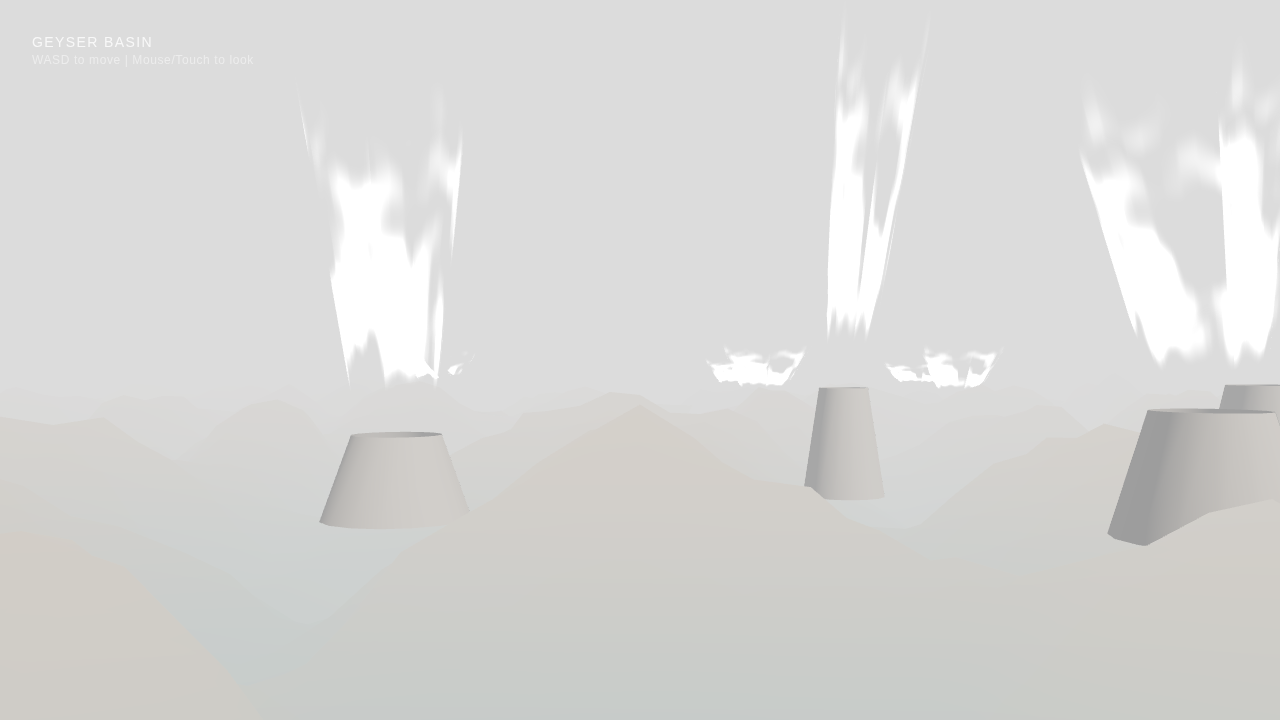
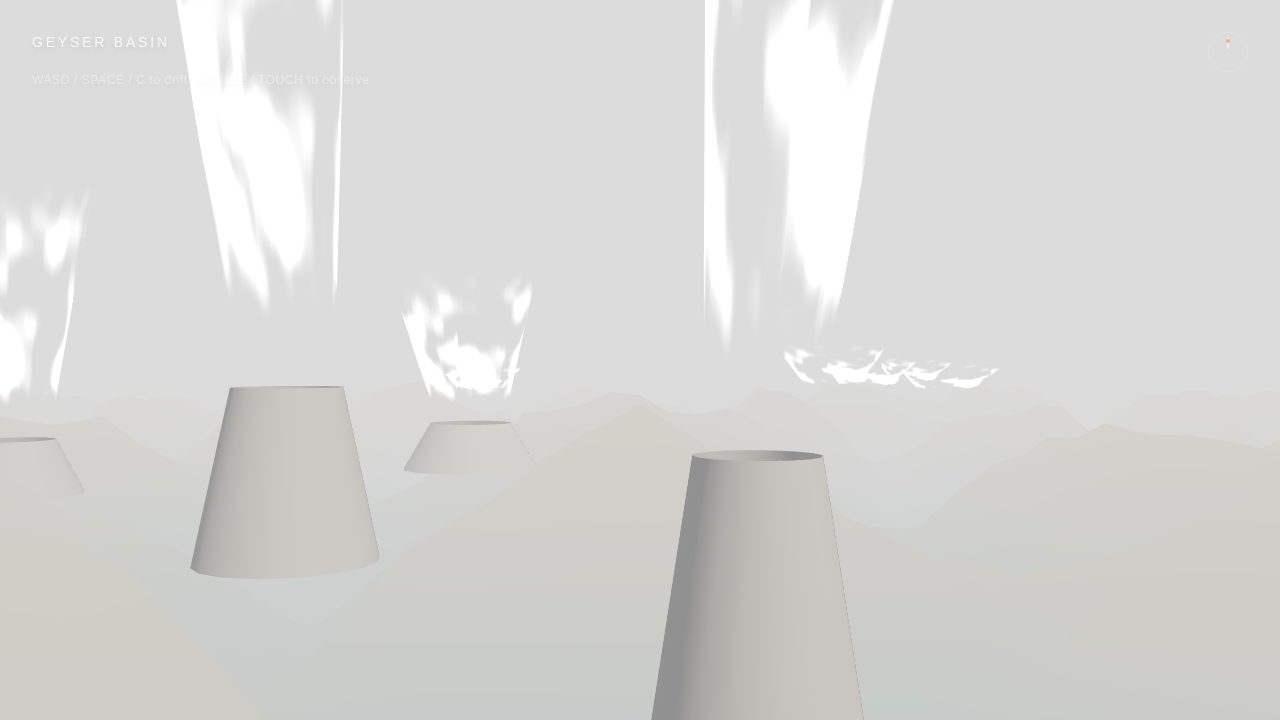
feat(ui): implement premium ux transformations
- Add cinematic intro screen with delayed fade-in animations.
- Implement "breath pulse" animation for the enter button.
- Add dynamic compass glyph that rotates with camera yaw.
- Implement inactivity UI fade (fades after 8 seconds of no input) to prioritize immersion.
- Refine typography to feel more grounded and atmospheric.

diff --git a/src/core/Experience.js b/src/core/Experience.js
@@ -78,20 +78,56 @@ export class Experience {
         // Audio System
         this.audioSystem = new AudioSystem();
 
-        // One-time click listener to initialize audio
-        const initAudio = () => {
-            if (this.audioSystem) {
-                this.audioSystem.init();
-            }
-            document.removeEventListener('click', initAudio);
-            document.removeEventListener('touchstart', initAudio);
-        };
-        document.addEventListener('click', initAudio);
-        document.addEventListener('touchstart', initAudio);
+        // UI State
+        this.isActive = false; // Only true once user clicks "Enter"
+
+        // Handle Intro Screen
+        const enterButton = document.getElementById('enter-button');
+        const introScreen = document.getElementById('intro-screen');
+        const uiOverlay = document.getElementById('ui-overlay');
+
+        if (enterButton) {
+            enterButton.addEventListener('click', () => {
+                if (this.audioSystem) {
+                    this.audioSystem.init();
+                }
+
+                this.isActive = true;
+
+                if (introScreen) {
+                    introScreen.style.opacity = '0';
+                    setTimeout(() => {
+                        introScreen.style.display = 'none';
+                        if (uiOverlay) {
+                            uiOverlay.style.opacity = '1';
+                        }
+                    }, 2000);
+                }
+            }, { once: true });
+        }
 
         // Resize handling
         this.boundResize = this.resize.bind(this);
         window.addEventListener('resize', this.boundResize);
+
+        // Inactivity tracking
+        this.lastInteractionTime = Date.now();
+        this.uiVisible = true;
+        this.uiOverlayElement = document.getElementById('ui-overlay');
+
+        const resetInteractionTimer = () => {
+            if (!this.isActive) return;
+            this.lastInteractionTime = Date.now();
+            if (!this.uiVisible && this.uiOverlayElement) {
+                this.uiVisible = true;
+                this.uiOverlayElement.style.opacity = '1';
+            }
+        };
+
+        window.addEventListener('mousemove', resetInteractionTimer);
+        window.addEventListener('keydown', resetInteractionTimer);
+        window.addEventListener('touchstart', resetInteractionTimer);
+        window.addEventListener('touchmove', resetInteractionTimer);
 
         // Start loop
         this.tick();
@@ -188,6 +224,25 @@ export class Experience {
                 regionNameEl.style.opacity = 1;
                 this.isFadingText = false;
             }, 1000);
+        }
+
+        // Compass Rotation
+        const compassGlyph = document.getElementById('compass-glyph');
+        if (compassGlyph) {
+            // Convert camera Y rotation to degrees
+            const degrees = THREE.MathUtils.radToDeg(this.camera.rotation.y);
+            compassGlyph.style.transform = `rotate(${degrees}deg)`;
+        }
+
+        // Inactivity UI Fade
+        if (this.isActive && this.uiVisible) {
+            const idleTime = Date.now() - this.lastInteractionTime;
+            if (idleTime > 8000) { // 8 seconds of inactivity
+                this.uiVisible = false;
+                if (this.uiOverlayElement) {
+                    this.uiOverlayElement.style.opacity = '0';
+                }
+            }
         }
 
         this.renderer.render(this.scene, this.camera);

diff --git a/index.html b/index.html
@@ -8,9 +8,30 @@
   <body>
     <div id="app" class="relative w-full h-full">
         <canvas class="webgl fixed top-0 left-0 w-full h-full outline-none"></canvas>
-        <div class="absolute top-0 left-0 w-full h-full pointer-events-none flex flex-col justify-between p-8 text-white/80 font-light z-10">
-            <div class="uppercase tracking-widest text-sm transition-opacity duration-1000" id="region-name">Geyser Basin</div>
-            <div id="instruction-hint" class="text-xs tracking-wider opacity-60 transition-opacity duration-1000">WASD to move | Mouse/Touch to look</div>
+
+        <!-- Intro Screen -->
+        <div id="intro-screen" class="absolute top-0 left-0 w-full h-full bg-black flex flex-col items-center justify-center text-white/90 z-50 transition-opacity duration-2000 pointer-events-auto">
+            <h1 class="text-3xl md:text-5xl tracking-[0.3em] font-light mb-8 text-center px-4 uppercase opacity-0 fade-in-up" style="animation-delay: 0.5s;">Yellowstone Sanctuary</h1>
+            <p class="text-sm md:text-base tracking-widest font-light text-white/50 mb-16 text-center max-w-lg px-6 opacity-0 fade-in-up" style="animation-delay: 1.5s;">A living, breathing geothermal wilderness rendered in Three.js. Drift slowly. Observe quietly.</p>
+            <button id="enter-button" class="group relative px-8 py-3 uppercase tracking-[0.2em] text-sm font-light border border-white/20 hover:border-white/60 transition-colors duration-500 opacity-0 fade-in-up cursor-pointer overflow-hidden" style="animation-delay: 2.5s;">
+                <span class="relative z-10">Enter Sanctuary</span>
+                <div class="absolute inset-0 bg-white/5 transform scale-x-0 group-hover:scale-x-100 transition-transform origin-left duration-700 ease-out"></div>
+            </button>
+        </div>
+
+        <!-- UI Overlay -->
+        <div id="ui-overlay" class="absolute top-0 left-0 w-full h-full pointer-events-none flex flex-col justify-between p-8 text-white/80 font-light z-10 transition-opacity duration-1000 opacity-0">
+            <div class="flex justify-between items-start w-full">
+                <div class="uppercase tracking-[0.2em] text-sm transition-opacity duration-1000 drop-shadow-md" id="region-name">Geyser Basin</div>
+
+                <!-- Compass Glyph -->
+                <div class="w-10 h-10 border rounded-full border-white/30 flex items-center justify-center opacity-60 relative transition-transform duration-300" id="compass-glyph">
+                    <div class="w-0.5 h-3 bg-white/80 absolute top-1 rounded-full"></div>
+                    <div class="w-1 h-1 bg-red-400/80 absolute top-1.5 rounded-full z-10"></div>
+                </div>
+            </div>
+
+            <div id="instruction-hint" class="text-xs tracking-wider opacity-50 transition-opacity duration-1000 drop-shadow-md">WASD / SPACE / C to drift | MOUSE / TOUCH to observe</div>
         </div>
     </div>
     <script type="module" src="/src/main.js"></script>

diff --git a/src/style.css b/src/style.css
@@ -10,3 +10,40 @@ body {
   font-family: 'Helvetica Neue', Helvetica, Arial, sans-serif;
   -webkit-font-smoothing: antialiased;
 }
+
+@keyframes fadeInUp {
+  from {
+    opacity: 0;
+    transform: translateY(20px);
+    filter: blur(5px);
+  }
+  to {
+    opacity: 1;
+    transform: translateY(0);
+    filter: blur(0);
+  }
+}
+
+.fade-in-up {
+  animation: fadeInUp 2s ease-out forwards;
+}
+
+@keyframes breathPulse {
+  0% {
+    box-shadow: 0 0 0 0 rgba(255, 255, 255, 0.1);
+  }
+  50% {
+    box-shadow: 0 0 20px 0 rgba(255, 255, 255, 0.2);
+  }
+  100% {
+    box-shadow: 0 0 0 0 rgba(255, 255, 255, 0.1);
+  }
+}
+
+#enter-button {
+  animation: fadeInUp 2s ease-out forwards, breathPulse 4s infinite 4.5s;
+}
+
+#compass-glyph {
+  transform-origin: center;
+}

diff --git a/verification/verify_app.py b/verification/verify_app.py
@@ -13,8 +13,15 @@ def verify_app():
         print("Waiting for canvas...")
         page.wait_for_selector("canvas.webgl")
 
+        print("Clicking enter button...")
+        page.wait_for_selector("#enter-button")
+        page.locator("#enter-button").click()
+
         print("Waiting for region name...")
         page.wait_for_selector("#region-name")
+
+        # Wait a bit for UI to transition
+        page.wait_for_timeout(2500)
 
         # Verify text content
         region_name = page.locator("#region-name").inner_text()
